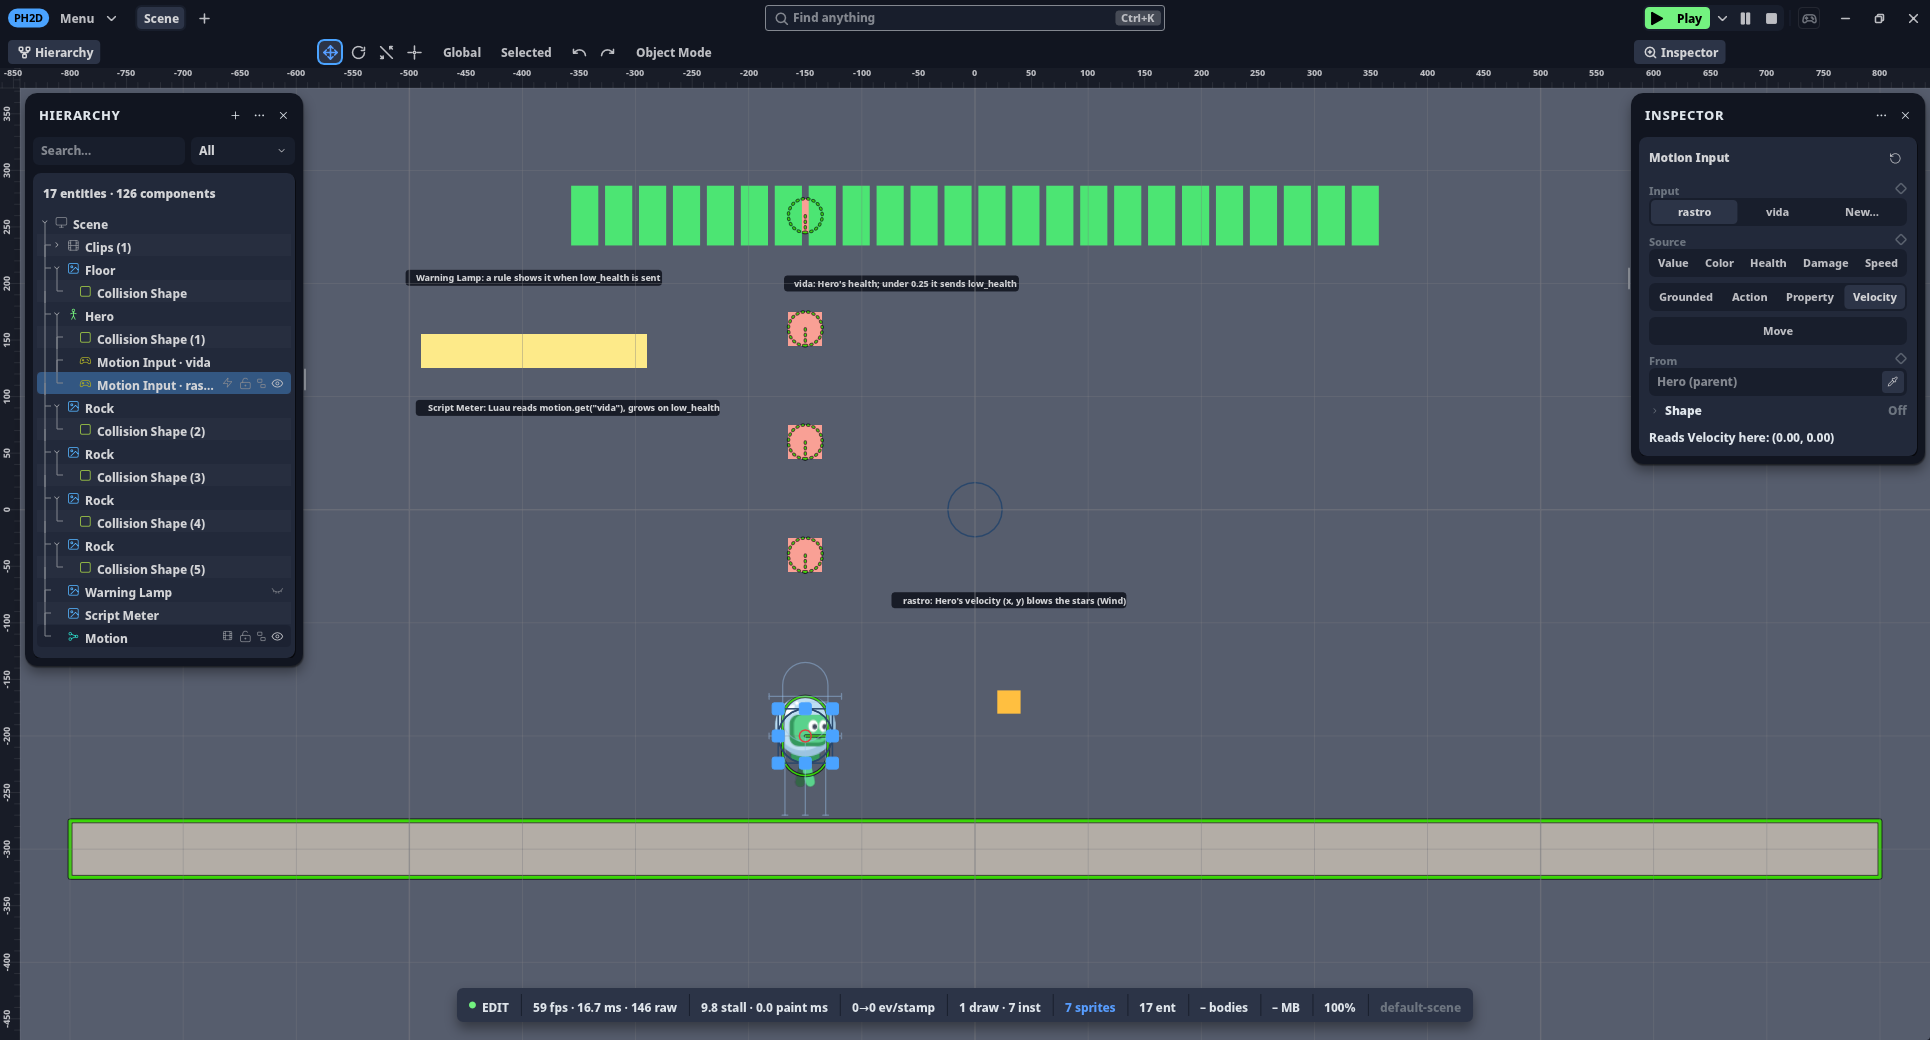
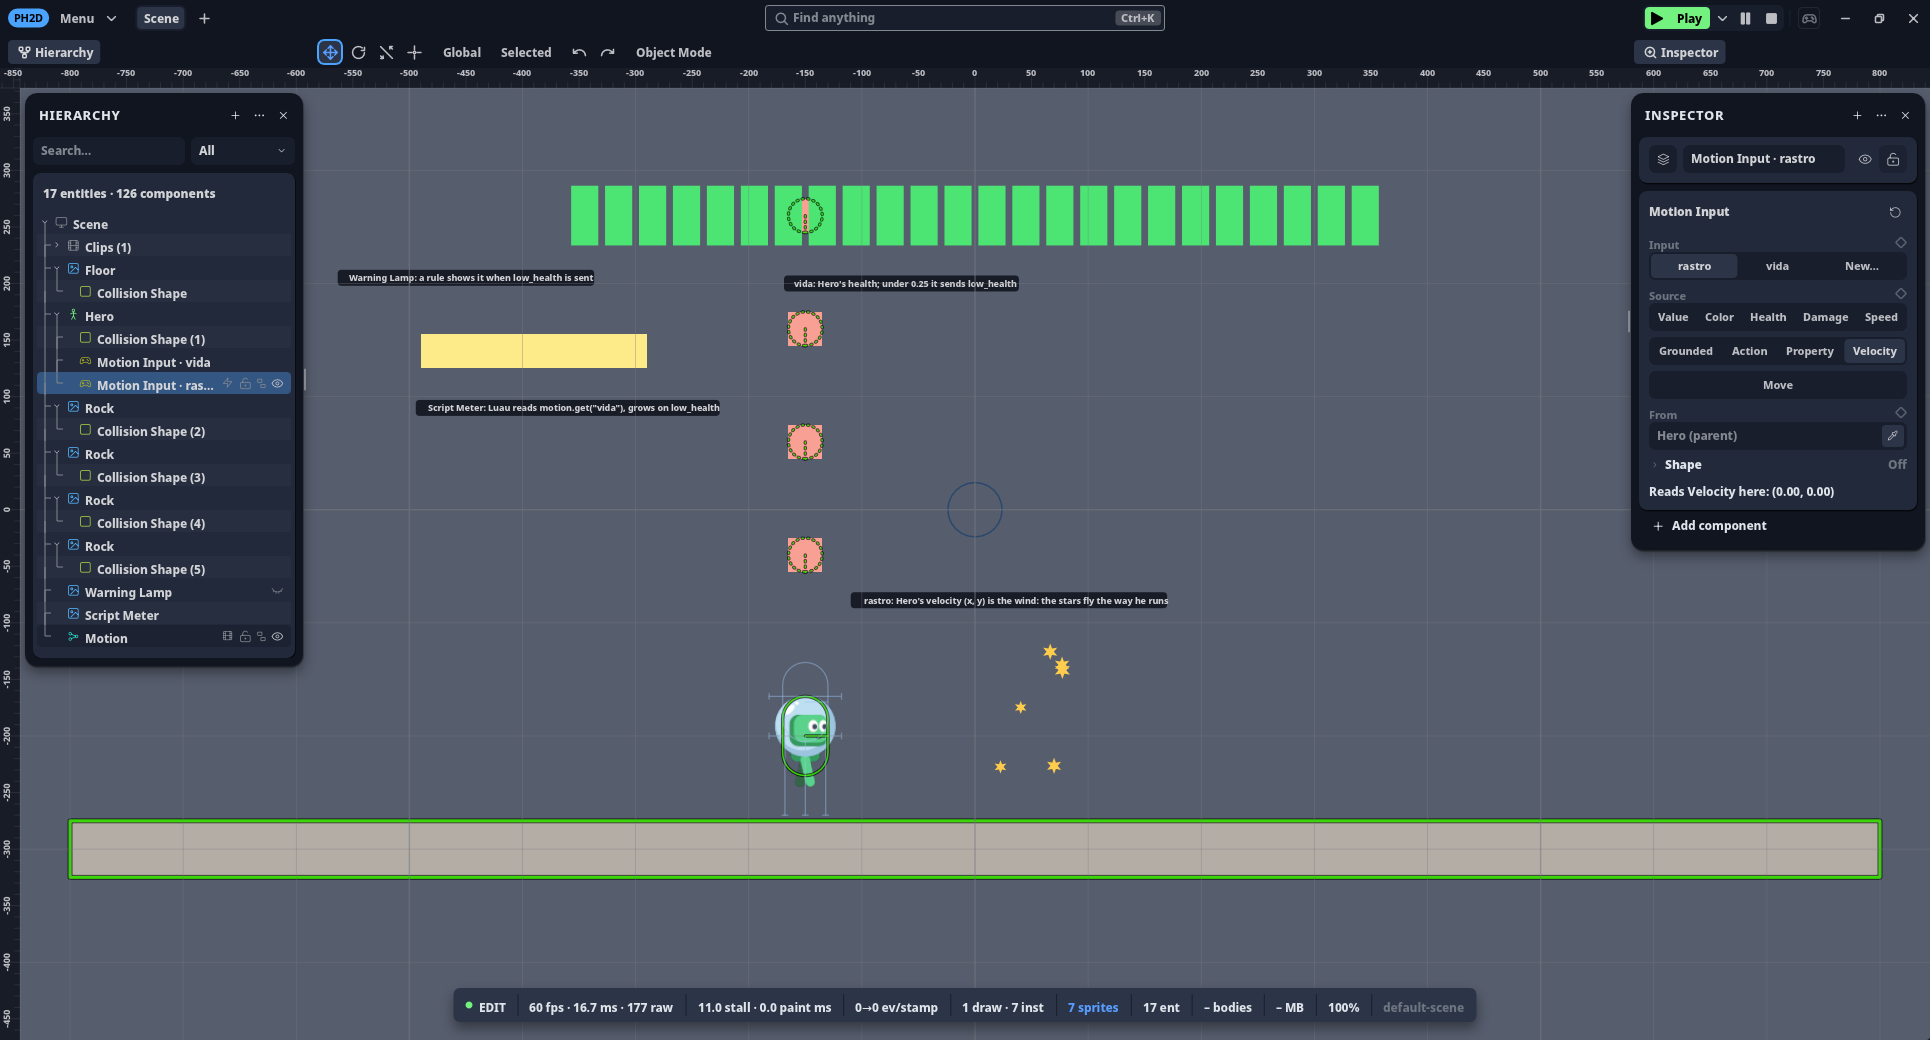
fix(GEF 08 MI onda 3): cena 28 — rastro de estrelas pequenas (rajadas num disco, já pairam parado), lâmpada redonda longe da barra; fotos a, b, c refeitas
Estrelas: forma Star (a família da galáxia do =134) num Duplicator, emissor em rajadas de 6 a cada 0.6 s num disco de 0.8; o vento é a velocidade do Hero, as estrelas voam para o lado da corrida (legenda dita). Warning Lamp em DISC_TILE_KEY, x −4.5. the_trail_points_where_the_hero_runs: tolerância parado 0.25 (a boca é um disco).

diff --git a/crates/ph2d-app-motion/src/motion_state_heroi_demo.rs b/crates/ph2d-app-motion/src/motion_state_heroi_demo.rs
@@ -5,7 +5,7 @@
 //! - **`rastro`** (o par Velocity do herói, portas `x`/`y`) → dois `Wind` (um por eixo) sobre um rastro
 //!   SIMULADO de estrelas que um emissor solta: o rastro aponta para onde o herói corre.
 
-use super::jogo_demo::{carimbo, entrada, liga, no_em};
+use super::jogo_demo::{entrada, liga, no_em};
 use ph2d_motion_doc::MotionDoc;
 use ph2d_node_registry::NodeRegistry;
 use ph2d_nodegraph::graph::{Graph, NodeId};
@@ -19,7 +19,7 @@ pub(crate) const RAPIDEZ_MAX: f32 = 6.0;
 /// Onde o rastro nasce no mundo: ao lado do Hero da cena 28, por onde ele corre.
 pub(crate) const RASTRO_AT: [f32; 2] = [0.3, -1.7];
 /// A «Warning Lamp» e a «Script Meter» da cena 28 (`cena_heroi_sinal::LAMPADA_AT`/`MEDIDOR_AT`), para as legendas.
-const LAMPADA_AT: [f32; 2] = [-3.9, 2.6];
+const LAMPADA_AT: [f32; 2] = [-4.5, 2.6];
 const MEDIDOR_AT: [f32; 2] = [-3.9, 1.4];
 /// As portas `x` e `y` do `value.input` (MI-5, no fim do manifesto).
 pub(crate) const PORTAS_XY: [u16; 2] = [7, 8];
@@ -39,12 +39,19 @@ fn trilha(g: &mut Graph) -> Option<(NodeId, NodeId, [NodeId; 2])> {
     let no = no_em(660.0);
     let emissor = no(g, "motion.emitter", -880.0, 0.0);
     for (chave, v) in [
-        ("rate", 30.0),
-        ("life", 1.6),
-        ("max", 64.0),
-        ("size", 0.2),
+        // Em rajadas desde t = 0: parado já há estrelas a pairar ao lado do Hero.
+        ("emit_mode", 1.0),
+        ("burst_count", 6.0),
+        ("burst_period", 0.6),
+        // Num disco (`shape_mode` 1 = Disc): a rajada do t = 0 não nasce empilhada num ponto.
+        ("shape_mode", 1.0),
+        ("shape_w", 0.8),
+        ("shape_h", 0.8),
+        ("life", 2.0),
+        ("max", 24.0),
+        ("size", 0.14),
         ("size_random", 0.3),
-        ("speed", 0.5),
+        ("speed", 0.3),
         ("speed_random", 0.5),
         ("spread", 360.0),
         ("seed", 7.0),
@@ -87,7 +94,18 @@ fn trilha(g: &mut Graph) -> Option<(NodeId, NodeId, [NodeId; 2])> {
         (de, pre, ventos[i]) = ((vento, 0), false, vento);
     }
     liga(g, de, integra, 1, false)?;
-    let estrelas = carimbo(g, [1.0, 0.75, 0.25], 0.0, 760.0)?;
+    let estrela = super::jogo_demo::forma(
+        g,
+        &no,
+        ph2d_node_motion_shape::ShapeKind::Star,
+        super::jogo_demo::MEIO_LADO_UNITARIO,
+        [1.0, 0.8, 0.3],
+        0.0,
+        110.0,
+    )?;
+    let estrelas = no(g, "motion.duplicator", 0.0, 0.0);
+    g.set_param(estrelas, "point_scale", 1.0);
+    liga(g, (estrela, 0), estrelas, 0, false)?;
     liga(g, (integra, 0), estrelas, 1, false)?;
     let lugar = no(g, "motion.transform", 220.0, 100.0);
     g.set_param(lugar, "offset_x", RASTRO_AT[0]);
@@ -139,7 +157,7 @@ pub(super) fn captions() -> Vec<crate::motion_demo_legend::Caption> {
         ficha(
             RASTRO_AT[0],
             RASTRO_AT[1] + 0.9,
-            "rastro: Hero's velocity (x, y) blows the stars (Wind)",
+            "rastro: Hero's velocity (x, y) is the wind: the stars fly the way he runs",
         ),
         ficha(
             LAMPADA_AT[0],

diff --git a/crates/ph2d-physics-scene/src/cena_heroi_sinal.rs b/crates/ph2d-physics-scene/src/cena_heroi_sinal.rs
@@ -13,7 +13,7 @@ use ph2d_ecs::{
     Transform, Visibility,
 };
 use ph2d_physics_ecs::{Collider, ColliderShape, Damage, Health, OnHit, ProjectileMotion};
-use ph2d_render::{Sprite, WHITE_TILE_KEY};
+use ph2d_render::{DISC_TILE_KEY, Sprite, WHITE_TILE_KEY};
 
 pub const CENA: u32 = 28;
 
@@ -39,8 +39,8 @@ pub const HEROI_AT: [f32; 2] = [-1.5, -2.0];
 pub const PEDRAS: [f32; 4] = [1.6, 2.6, 3.6, 4.6];
 const RAIO: f32 = 0.15;
 pub const CHAO_AT: ([f32; 2], [f32; 2]) = ([0.0, -3.0], [8.0, 0.25]);
-/// A «Warning Lamp» e a «Script Meter» à esquerda da barra (y 2,6) do grafo `=143`.
-pub const LAMPADA_AT: [f32; 2] = [-3.9, 2.6];
+/// A «Warning Lamp» (redonda, longe da ponta da barra) e a «Script Meter» à esquerda da barra (y 2,6) do grafo `=143`.
+pub const LAMPADA_AT: [f32; 2] = [-4.5, 2.6];
 pub const MEDIDOR_AT: [f32; 2] = [-3.9, 1.4];
 pub const SCRIPT_NOME: &str = "meter.luau";
 /// O script: a largura segue o que o grafo lê em «vida»; ao ouvir `low_health` engorda e escreve no Output.
@@ -154,7 +154,7 @@ pub fn montar(sim: &mut SimWorld, p: Pecas<'_>) -> Entity {
         ..SignalAction::default()
     };
     sim.world_mut().entity_mut(lampada).insert((
-        Sprite::atlas(WHITE_TILE_KEY, [0.7; 2], LAMPADA_RGBA),
+        Sprite::atlas(DISC_TILE_KEY, [0.7; 2], LAMPADA_RGBA),
         Visibility::hidden(),
         SignalActions(vec![regra]),
     ));

diff --git a/crates/ph2d-app-motion/src/motion_state_heroi_demo_tests.rs b/crates/ph2d-app-motion/src/motion_state_heroi_demo_tests.rs
@@ -109,7 +109,8 @@ fn the_trail_points_where_the_hero_runs() {
         centro([0.0, 4.0]),
     );
     eprintln!("rastro: parado {parado:?} direita {direita:?} esquerda {esquerda:?} cima {cima:?}");
-    assert!(parado[0].hypot(parado[1]) < 0.2, "{parado:?}");
+    // A boca é um disco de 0.8: o centro das estrelas fica dentro de um quarto de metro.
+    assert!(parado[0].hypot(parado[1]) < 0.25, "{parado:?}");
     assert!(direita[0] > 0.3 && direita[1].abs() < 0.2, "{direita:?}");
     assert!(esquerda[0] < -0.3, "{esquerda:?}");
     assert!(cima[1] > 0.3 && cima[0].abs() < 0.2, "{cima:?}");
